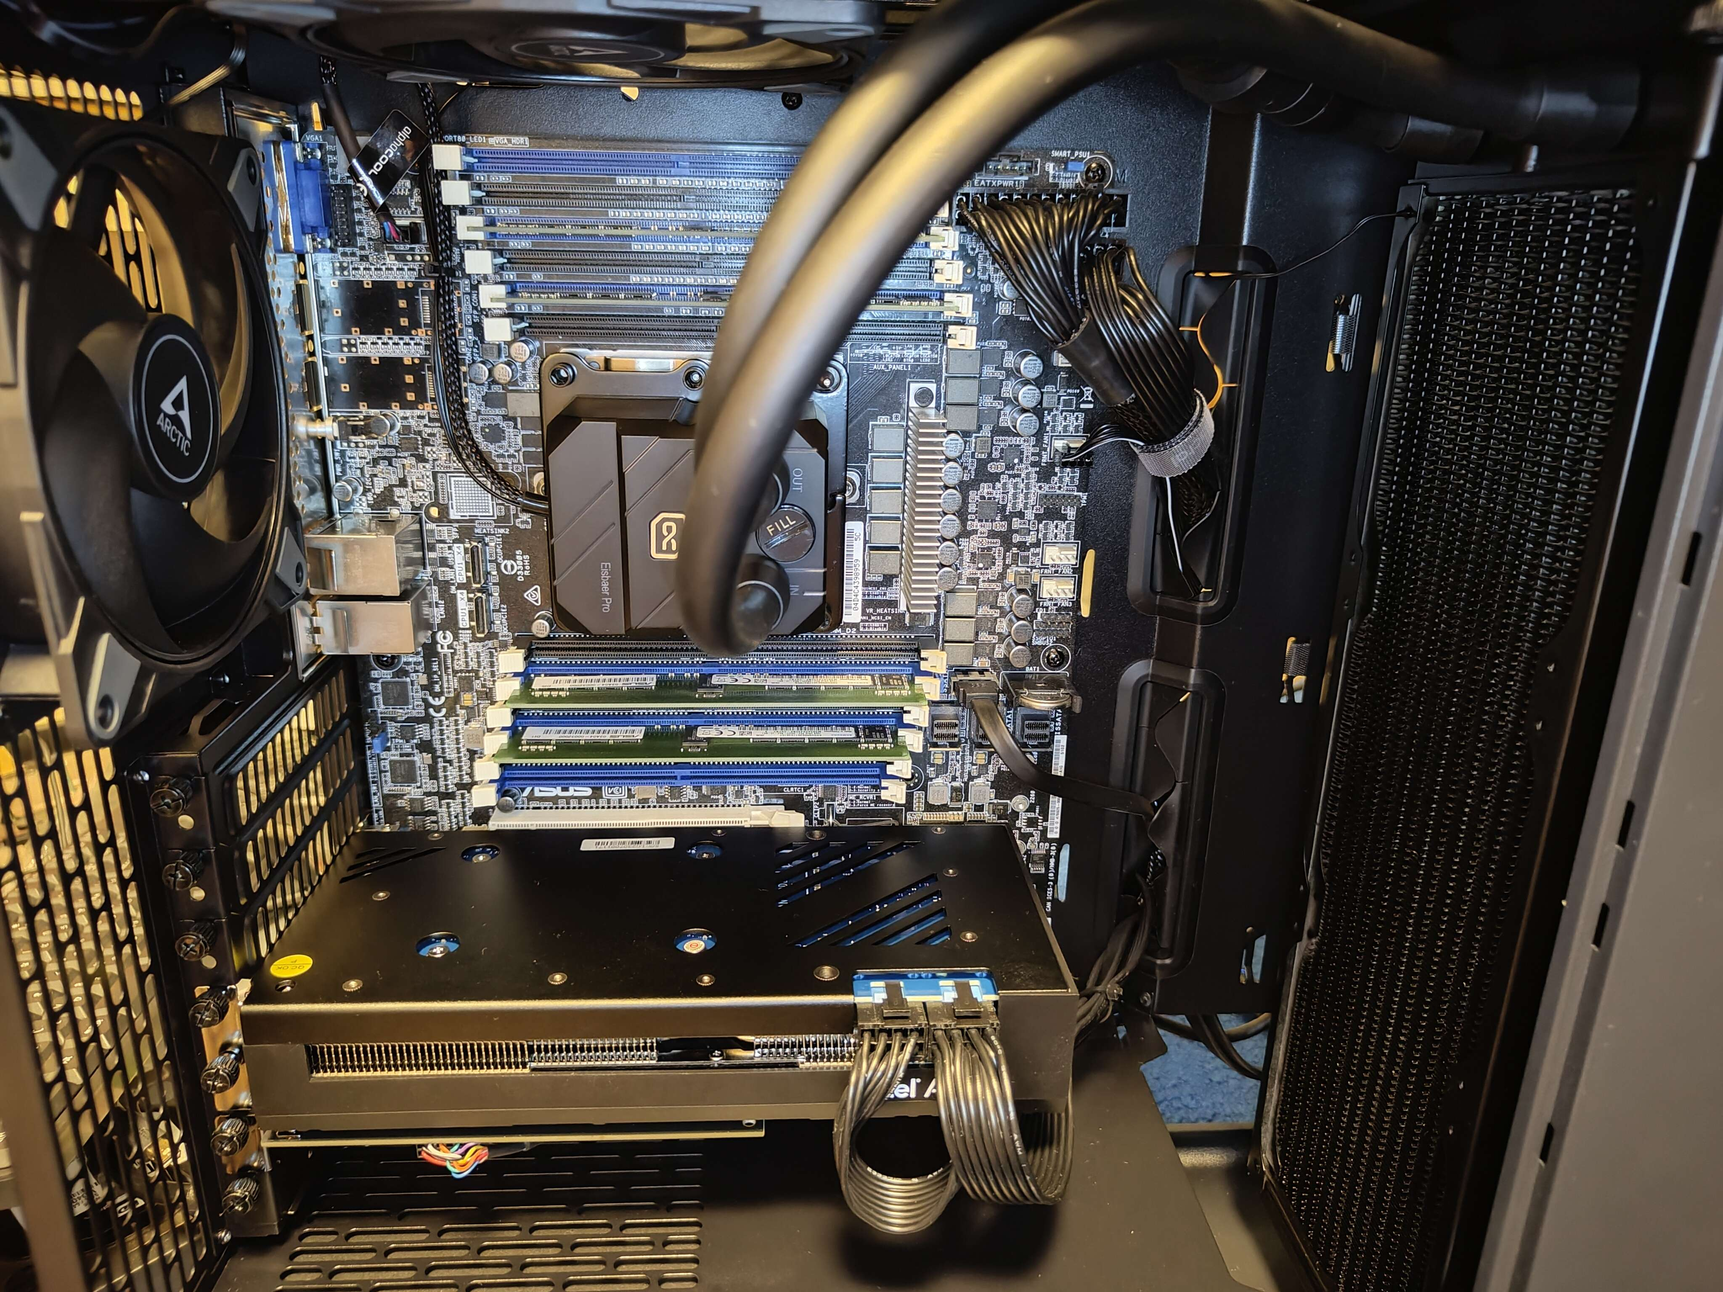
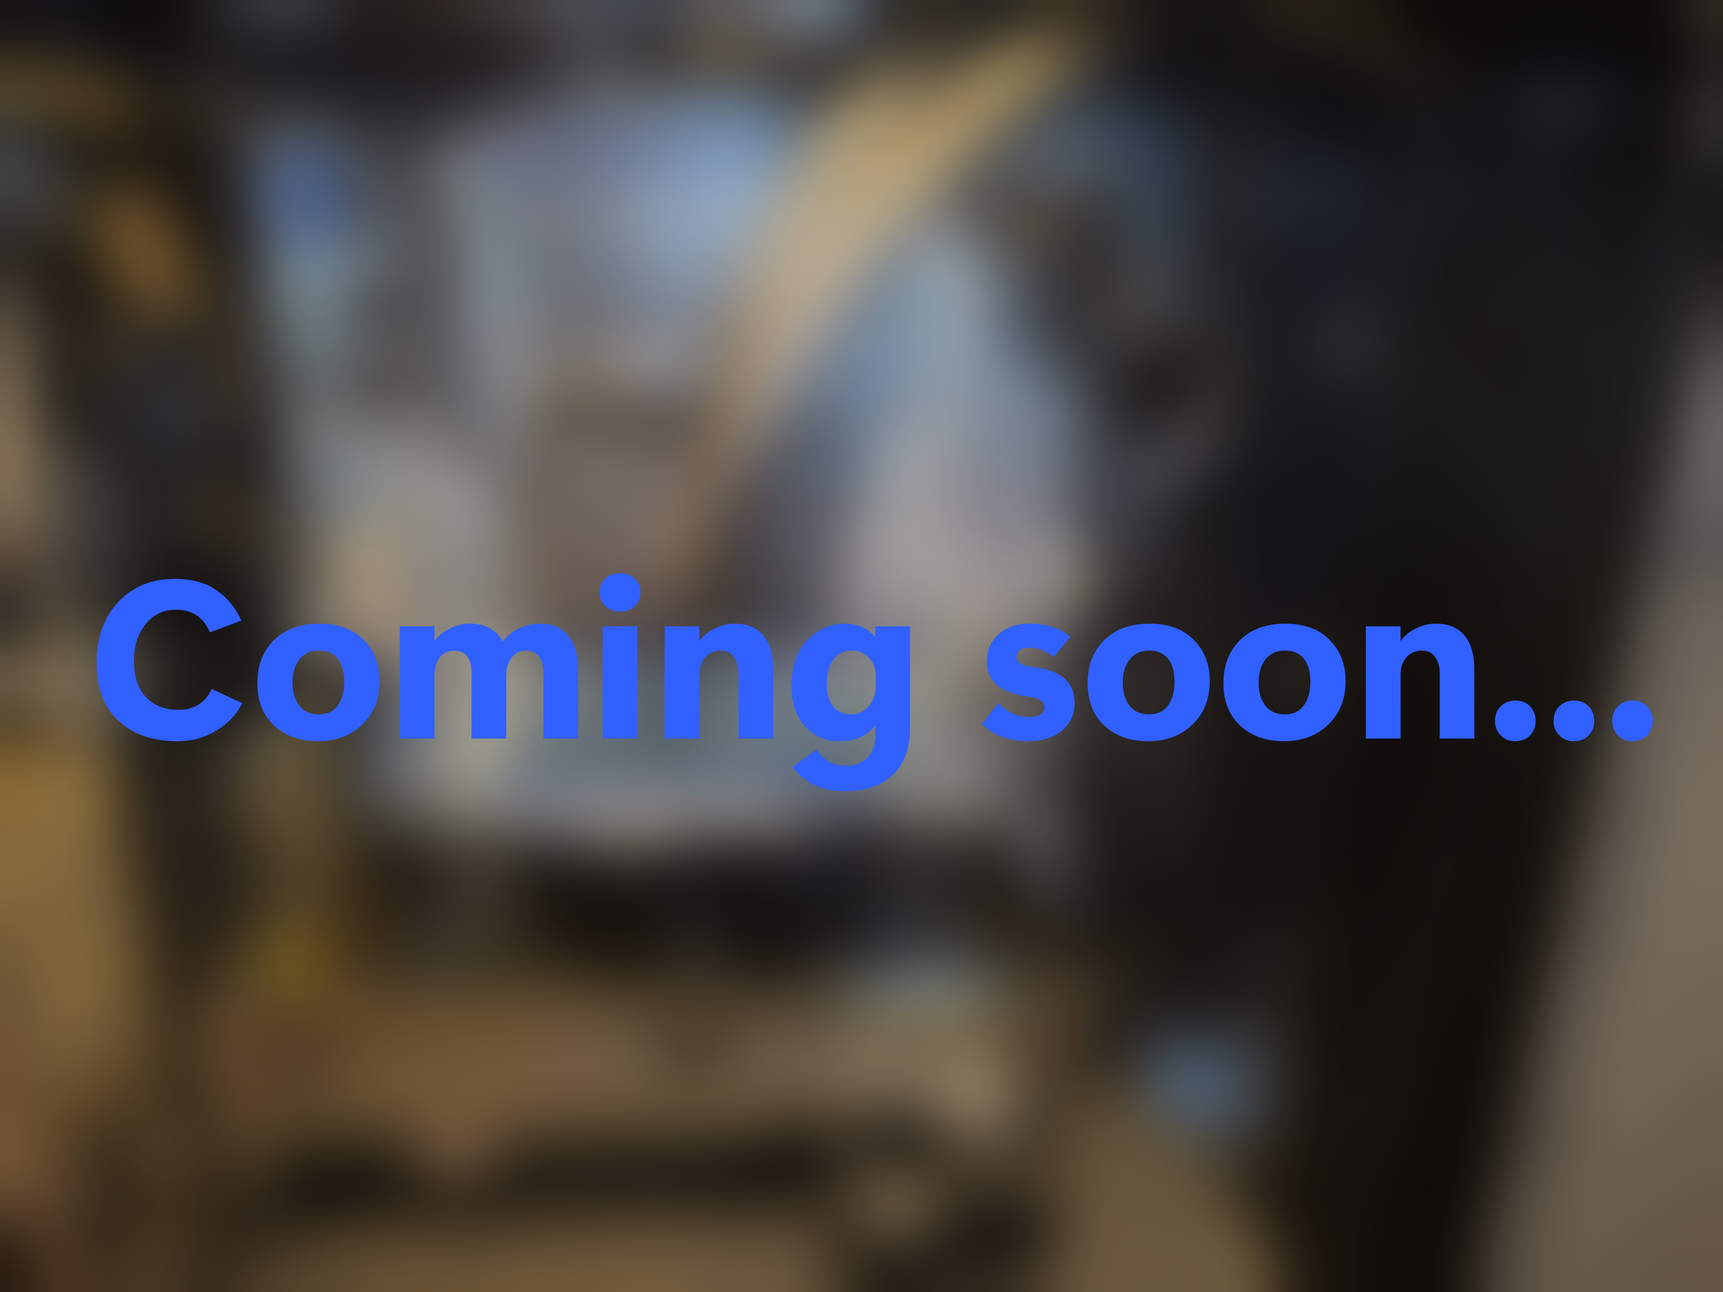
Add files via upload

diff --git a/servers.html b/servers.html
@@ -416,7 +416,7 @@
                                 <h4>AIサーバー No.1 24時間稼働</h4>
                                 <div class="single-post-text">
                                   <p>CPU: Intel Xeon Silver 4410T<br />
-                                    メモリ: SKhynix PC5-4800B ECC RDIMM 16GBx4 (64GB) <br />
+                                    メモリ: Micron PC5-4800B ECC RDIMM 32GBx4 (128GB) <br />
                                     CPUクーラー: Noctua NH-U9 DX-4677<br />
                                     マザーボード: Supermicro X13SEI-F <br />
                                     RAIDカード: MegaRAID 946N-8i<br />
@@ -438,8 +438,8 @@
                         </div>
                         <div class="box-item f-content">
                             <div class="image">
-                              <a href="#fujitsu-server" class="has-popup-media">
-                                <img src="img/fujitsu-server.jpg" alt="Picture" />
+                              <a href="#asus-server" class="has-popup-media">
+                                <img src="img/asus-server.jpg" alt="Picture" />
                                 <span class="info">
                                   <span class="centrize full-width">
                                     <span class="vertical-center">
@@ -450,25 +450,63 @@
                               </a>
                             </div>
                             <div class="desc">
-                              <div class="category">マインクラフトサーバー 24時間稼働</div>
+                              <div class="category">録画サーバー 24時間稼働</div>
                             </div>
-                            <div id="fujitsu-server" class="popup-box mfp-fade mfp-hide">
+                            <div id="asus-server" class="popup-box mfp-fade mfp-hide">
                               <div class="content">
                                 <div class="image">
-                                  <img src="img/fujitsu-server.jpg" alt="Picture" />
+                                  <img src="img/asus-server.jpg" alt="Picture" />
                                 </div>
                                 <div class="desc">
                                   <div class="category">サーバー</div>
-                                  <h4>マインクラフトサーバー 24時間稼働</h4>
+                                  <h4>録画サーバー 24時間稼働</h4>
                                   <div class="single-post-text">
-                                    <p>モデル名: Fujitsu Primergy RX2530 M5 <br />
-                                      CPU: Intel Xeon Silver 4214R x2<br />
-                                      メモリ: Samsung PC4-2933Y ECC RDIMM 64GBx2 (128GB) <br />
-                                      RAIDカード: Fujitsu PRAID EP420i <br />
+                                    <p>モデル名: ASUS RS100-E10-PI2 <br />
+                                      CPU: Intel Xeon E-2144G<br />
+                                      メモリ: Kingston PC4-3200AA ECC UDIMM 64GB <br />
                                       ストレージ:  <br />
-                                      - Micron M600 512GB <br />
-                                      - Samsung PM1735 hhhl 1.6TB<br />
+                                      - Intel 512GB SSD <br />
+                                      - WD 2TB HDD<br />
                                       OS: Ubuntu 22.04</p>
+                                  </div>
+                                </div>
+                              </div>
+                            </div>
+                          </div>
+                        <div class="box-item f-content">
+                            <div class="image">
+                              <a href="#gigabyte-server" class="has-popup-media">
+                                <img src="img/gigabyte-server.jpg" alt="Picture" />
+                                <span class="info">
+                                  <span class="centrize full-width">
+                                    <span class="vertical-center">
+                                      <span class="ion ion-ios-plus-empty"></span>
+                                    </span>
+                                  </span>
+                                </span>
+                              </a>
+                            </div>
+                            <div class="desc">
+                              <div class="category">実験サーバー 24時間稼働なし</div>
+                            </div>
+                            <div id="gigabyte-server" class="popup-box mfp-fade mfp-hide">
+                              <div class="content">
+                                <div class="image">
+                                  <img src="img/gigabyte-server.jpg" alt="Picture" />
+                                </div>
+                                <div class="desc">
+                                  <div class="category">サーバー</div>
+                                  <h4>実験サーバー 24時間稼働なし</h4>
+                                  <div class="single-post-text">
+                                    <p>CPU: Intel Xeon Platinum 8468 ES @ 1.50GHz x2<br />
+                                      メモリ: Micron PC5-4800B ECC RDIMM 32GB x2(64GB) <br />
+                                      CPUクーラー: Alphacool Eisbaer Pro Aurora 420 ＆ Alphacool Eisbaer Pro Aurora 360 <br />
+                                      マザーボード: GIBABYTE MS73-HB1 <br />
+                                      ケース: InWin Dubili Silver 組み立て式 <br />
+                                      電源ユニット: SilverStone STT-HA1200R-PM 1200W <br />
+                                      ケースファン: ARCTIC P12 MAX x1 <br />
+                                      Storages: Samsung 980 Pro with Heatsink 2TB　<br />
+                                      OS: Windows 11 Pro</p>
                                   </div>
                                 </div>
                               </div>
@@ -537,7 +575,7 @@
                                 </a>
                               </div>
                               <div class="desc">
-                                <div class="category">サブPC 24時間稼働</div>
+                                <div class="category">サブPC 製作中</div>
                               </div>
                               <div id="sub-pc" class="popup-box mfp-fade mfp-hide">
                                 <div class="content">
@@ -546,23 +584,24 @@
                                   </div>
                                   <div class="desc">
                                     <div class="category">ワークステーション</div>
-                                    <h4>サブPC 24時間稼働</h4>
+                                    <h4>サブPC 製作中</h4>
                                     <div class="single-post-text">
-                                      <p>CPU: Intel Xeon Gold 6246 @ 3.30GHz <br />
-                                        メモリ: Samsung PC4-2933Y ECC REG 16GB x4 (64GB) ASUS純正 <br />
+                                      <p>CPU: AMD EPYC 8534P <br />
+                                        メモリ: SKHynix PC5-4800B ECC RDIMM (64GBx4)256GB <br />
                                         CPUクーラー: Alphacool Eisbaer Pro HPE Aurora 360 CPU AIO <br />
-                                        マザーボード: ASUS Z11PA-U12 <br />
-                                        GPU: 玄人志向 Intel Arc 750 (AR-A750D6-E8GB/DF) <br />
+                                        マザーボード: ASUS S14NA-U12 <br />
+                                        GPU: 玄人志向 Intel Arc 750 (AR-A750D6-E8GB/DF) 仮確定 <br />
                                         ケース: Fractal Design North Charcoal Black <br />
                                         電源ユニット: Fractal Design ion+2 Platinum 860w <br />
                                         ケースファン: ARCTIC P12 MAX x4 <br />
                                         ストレージ:  <br />
-                                        - Micron M600 SSD 512GB (OS) <br />
-                                        - Samsung 980 PRO with heatsink 1TB <br />
+                                        - Crucial T705 with heatshink 1TB (OS) <br />
+                                        - Samsung 980 PRO with heatsink 1TB 仮確定 <br />
+                                        - Samsung PM9A3 960GB x2 <br />
                                         その他:  <br />
                                         - A-RGB LED SMALL CONTROLLER <br />
                                         - Sound Blaster Audigy Rx PCI-e SB-AGY-RX <br />
-                                        OS: Windows 10 Pro
+                                        OS: Windows 11 Pro
                                       </p>
                                     </div>
                                   </div>
@@ -583,7 +622,7 @@
                                 </a>
                               </div>
                               <div class="desc">
-                                <div class="category">AIサーバー No.2 24時間稼働</div>
+                                <div class="category">実験サーバー No.2 24時間稼働</div>
                               </div>
                               <div id="ai-server2" class="popup-box mfp-fade mfp-hide">
                                 <div class="content">
@@ -592,7 +631,7 @@
                                   </div>
                                   <div class="desc">
                                     <div class="category">サーバー</div>
-                                    <h4>AIサーバー No.2 24時間稼働</h4>
+                                    <h4>実験サーバー No.2 24時間稼働</h4>
                                     <div class="single-post-text">
                                       <p>CPU: Intel Xeon Silver 4309Y @ 2.80GHz <br />
                                         メモリ: Micron PC4-3200AA ECC REG 128GB <br />
@@ -621,12 +660,11 @@
                               </div>
                               <div class="skills list">
                                 <ul>
-                                  <li><div class="name">&#10004; Allied Telesis X510-28GTX</div></li>
-                                  <li><div class="name">&#10004; Govee 温度計</div></li>
+                                  <li><div class="name">&#10004; FS.com S3900-24T4S</div></li>
+                                  <li><div class="name">&#10004; SwitchBot 温度計</div></li>
                                   <li><div class="name">&#10004; DigiPower SAT-SWH-1511A-08N1</div></li>
-                                  <li><div class="name">&#10004; APC Smart-UPS 750</div></li>
-                                  <li><div class="name">&#10004; APC Smart-UPS 750</div></li>
-                                  <li><div class="name">&#10004; Smartcs Mini ns2240-04</div></li>
+                                  <li><div class="name">&#10004; StarTech.com KVM Switch</div></li>
+                                  <li><div class="name">&#10004; APC Smart-UPS X3000</div></li>
                                 </ul>
                               </div>
                             </div>
@@ -640,7 +678,7 @@
             <a target="_blank" href="https://twitter.com/HomeDC_JP" title="Twitter"><span class="ion ion-social-twitter"></span></a>
             <a target="_blank" href="https://www.facebook.com/people/Home-DC-Japan/100089576975878/" title="FaceBook"><span class="ion ion-social-facebook"></span></a>
           </div>
-          <div class="copy"><b>Copyright © 2023 HomeDC Japan.</b></div>
+          <div class="copy"><b>Copyright © 2024 HomeDC Japan.</b></div>
           <div class="clr"></div>
         </footer>
         <div class="line top"></div>

diff --git a/index.html b/index.html
@@ -1,5 +1,5 @@
 <!DOCTYPE html>
-<html>
+<html lang="ja">
 <head>
   <meta http-equiv="Content-Type" content="text/html; charset=UTF-8"/>
   <meta charset="UTF-8">
@@ -12,36 +12,145 @@
   <meta name="format-detection" content="telephone=no,address=no,email=no">
   <meta property="og:title" content="ここをクリックして、サイトを開く">
   <meta property="og:type" content="website">
-  <meta property="og:url" content="https://www.homedc.jp/">
-  <meta property="og:image" content="https://www.homedc.jp/img/pr_1.png">
+  <meta property="og:url" content="https://www.homedc.jp/ja">
+  <meta property="og:image" content="https://www.homedc.jp/ja/img/pr_1.png">
   <meta property="og:site_name" content="HomeDC Japan | 逸般の誤家庭データセンター計画">
   <meta property="og:description" content="このサイトは、逸般の誤家庭データセンター計画のサイトです。">
   <meta property="og:locale" content="ja_JP">
   <meta name="twitter:card" content="summary_large_image">
-  <meta name="twitter:image" content="https://www.homedc.jp/img/pr_1.png">
-  <meta property="og:image:secure_url" content="https://www.homedc.jp/img/pr_1.png" />
+  <meta name="twitter:image" content="https://www.homedc.jp/ja/img/pr_1.png">
+  <meta property="og:image:secure_url" content="https://www.homedc.jp/ja/img/pr_1.png" />
   <meta property="og:image:alt" content="HomeDC JP" />
   <meta name="theme-color" content="#54f9ff" />
   <meta http-equiv="Pragma" content="no-cache">
   <meta http-equiv="Cache-Control" content="no-cache">
 
-  <link rel="alternate" href="https://www.homedc.jp/ja/" hreflang="ja">
-  <link rel="alternate" href="https://www.homedc.jp/en/" hreflang="en">
-</head>
-<script>
-  function browserLanguage() {
-    try {
-      return (navigator.browserLanguage || navigator.language || navigator.userLanguage).substr(0,2)
-    }
-    catch(e) {
-      return undefined;
-    }
-  }
+  <link href='https://fonts.googleapis.com/css?family=Roboto+Mono:400,100,300italic,300,100italic,400italic,500,500italic,700,700italic&amp;subset=latin,cyrillic' rel='stylesheet'>
+  <link rel="stylesheet" href="https://cdnjs.cloudflare.com/ajax/libs/font-awesome/4.7.0/css/font-awesome.min.css">
+  <link rel="stylesheet" href="css/style.css">
+  <link rel="stylesheet" href="css/ionicons.css" />
+  <link rel="stylesheet" href="css/magnific-popup.css" />
+  <link rel="stylesheet" href="css/animate.css" />
+  <link rel="stylesheet" href="css/owl.carousel.css" />
+  <link rel="stylesheet" href="css/syntax.css" />
+  <link rel="stylesheet" href="css/white.css" />
+  <link rel="stylesheet" href="css/text-animation.css">
+  <link rel="icon" href="favicon.ico">
 
-  if (browserLanguage().indexOf("ja") != -1) {
-    location.replace("/ja/");
-  } else {
-    location.replace("/en/");
+  <style>
+  ::-webkit-scrollbar
+  {
+  width: 6px;
   }
-</script>
+  ::-webkit-scrollbar-track
+  {
+  background: #f1f1f1;
+  }
+  ::-webkit-scrollbar-thumb
+  {
+  background: rgb(0, 155, 245);
+  }
+  ::-webkit-scrollbar-thumb:hover
+  {
+  background: #555;
+  }
+  </style>
+</head>
+
+<body class="home">
+  <div class="preloader">
+    <div class="centrize full-width">
+      <div class="vertical-center">
+        <div class="pre-inner">
+          <div class="load typing-load"><p>逸般の誤家庭</p></div>
+          <span class="typed-load"></span>
+        </div>
+      </div>
+    </div>
+  </div>
+  <div class="container">
+
+    <header>
+      <div class="head-top">
+        <span class="sidebar_btn"><span></span></span>
+        <a href="#" class="menu-btn"><span></span></a>
+        <div class="top-menu">
+          <ul>
+            <li><a href="index.html"><b>ホーム</b></a></li>
+            <li><a href="about.html"><b>HomeDC.jpについて</b></a></li>
+            <li><a href="servers.html"><b>サーバー構成</b></a></li>
+            <li><a href="status.html"><b>ネットワーク状況</b></a></li>
+            <li><a href="https://discord.com/invite/y5kGCGwN59"><b>Discordコミュニティー</b></a></li>
+            <li><a href="https://search-dns.homedc.jp/"><b>DNS検索ツール</b></a></li>
+            <li><a href="https://text.homedc.jp/"><b>テキストツール</b></a></li>
+          </ul>
+        </div>
+      </div>
+    </header>
+
+    <div class="wrapper">
+      <div class="section started">
+        <div class="centrize full-width">
+          <div class="vertical-center">
+            <div class="started-content">
+              <div class="h-title" data-text="HomeDC Japan">HomeDC Japan</div>
+              <div class="h-subtitle typing-bread">
+                <p>逸般の誤家庭データセンター計画</p>
+              </div>
+            </div>
+          </div>
+        </div>
+      </div>
+    </div>
+
+    <footer>
+      <div class="soc">
+        <a target="_blank" href="https://twitter.com/HomeDC_JP" title="Twitter"><span class="ion ion-social-twitter"></span></a>
+        <a target="_blank" href="https://www.facebook.com/people/Home-DC-Japan/100089576975878/" title="FaceBook"><span class="ion ion-social-facebook"></span></a>
+      </div>
+      <div class="copy"><b>Copyright © 2024 HomeDC Japan.</b></div>
+      <div class="clr"></div>
+    </footer>
+    <div class="line top"></div>
+    <div class="line bottom"></div>
+    <div class="line left"></div>
+    <div class="line right"></div></div>
+    <div class="s_overlay"></div>
+    <div class="content-sidebar">
+      <div class="sidebar-wrap">
+        <aside id="secondary" class="widget-area">
+          <section class="widget widget_recent_entries">
+            <h2 class="widget-title"><b>www.homedc.jp</b></h2>
+            <ul>
+              <li><b>逸般の誤家庭データセンター計画サイトへようこそ！</b></li>
+            </ul>
+          </section>
+          <section class="widget widget_categories">
+            <h2 class="widget-title"><b>カテゴリー:</b></h2>
+            <ul>
+              <li><a href="index.html">ホーム</a></li>
+              <li><a href="about.html">HomeDC.jpについて</a></li>
+              <li><a href="servers.html">サーバー構成</a></li>
+              <li><a href="status.html">ネットワーク状況</a></li>
+              <li><a href="https://discord.com/invite/y5kGCGwN59">Discordコミュニティー</a></li>
+              <li><a href="https://search-dns.homedc.jp/">DNS検索ツール</a></li>
+              <li><a href="https://text.homedc.jp/">テキストツール</a></li>
+              <li><a href="/en">言語(English)</a></li>
+            </ul>
+          </section>
+        </aside>
+      </div>
+      <span class="close"></span>
+    </div>
+    <script src="js/jquery.min.js"></script>
+    <script src="js/jquery.validate.js"></script>
+    <script src="js/jquery.magnific-popup.js"></script>
+    <script src="js/imagesloaded.pkgd.js"></script>
+    <script src="js/isotope.pkgd.js"></script>
+    <script src="js/owl.carousel.js"></script>
+    <script src="js/typed.js"></script>
+    <script src="js/rrssb.js"></script>
+    <script src="js/simple-jekyll-search.js"></script>
+    <script src="js/glitche-scripts.js"></script>
+  </body>
 </html>

diff --git a/status.html b/status.html
@@ -111,7 +111,7 @@
         <a target="_blank" href="https://twitter.com/HomeDC_JP" title="Twitter"><span class="ion ion-social-twitter"></span></a>
         <a target="_blank" href="https://www.facebook.com/people/Home-DC-Japan/100089576975878/" title="FaceBook"><span class="ion ion-social-facebook"></span></a>
       </div>
-      <div class="copy"><b>Copyright © 2023 HomeDC Japan.</b></div>
+      <div class="copy"><b>Copyright © 2024 HomeDC Japan.</b></div>
       <div class="clear"></div>
     </footer>
     <div class="line top"></div>

diff --git a/about.html b/about.html
@@ -149,7 +149,7 @@
         <a target="_blank" href="https://twitter.com/HomeDC_JP" title="Twitter"><span class="ion ion-social-twitter"></span></a>
         <a target="_blank" href="https://www.facebook.com/people/Home-DC-Japan/100089576975878/" title="FaceBook"><span class="ion ion-social-facebook"></span></a>
       </div>
-      <div class="copy"><b>Copyright © 2023 HomeDC Japan.</b></div>
+      <div class="copy"><b>Copyright © 2024 HomeDC Japan.</b></div>
       <div class="clr"></div>
     </footer>
     <div class="line top"></div>
